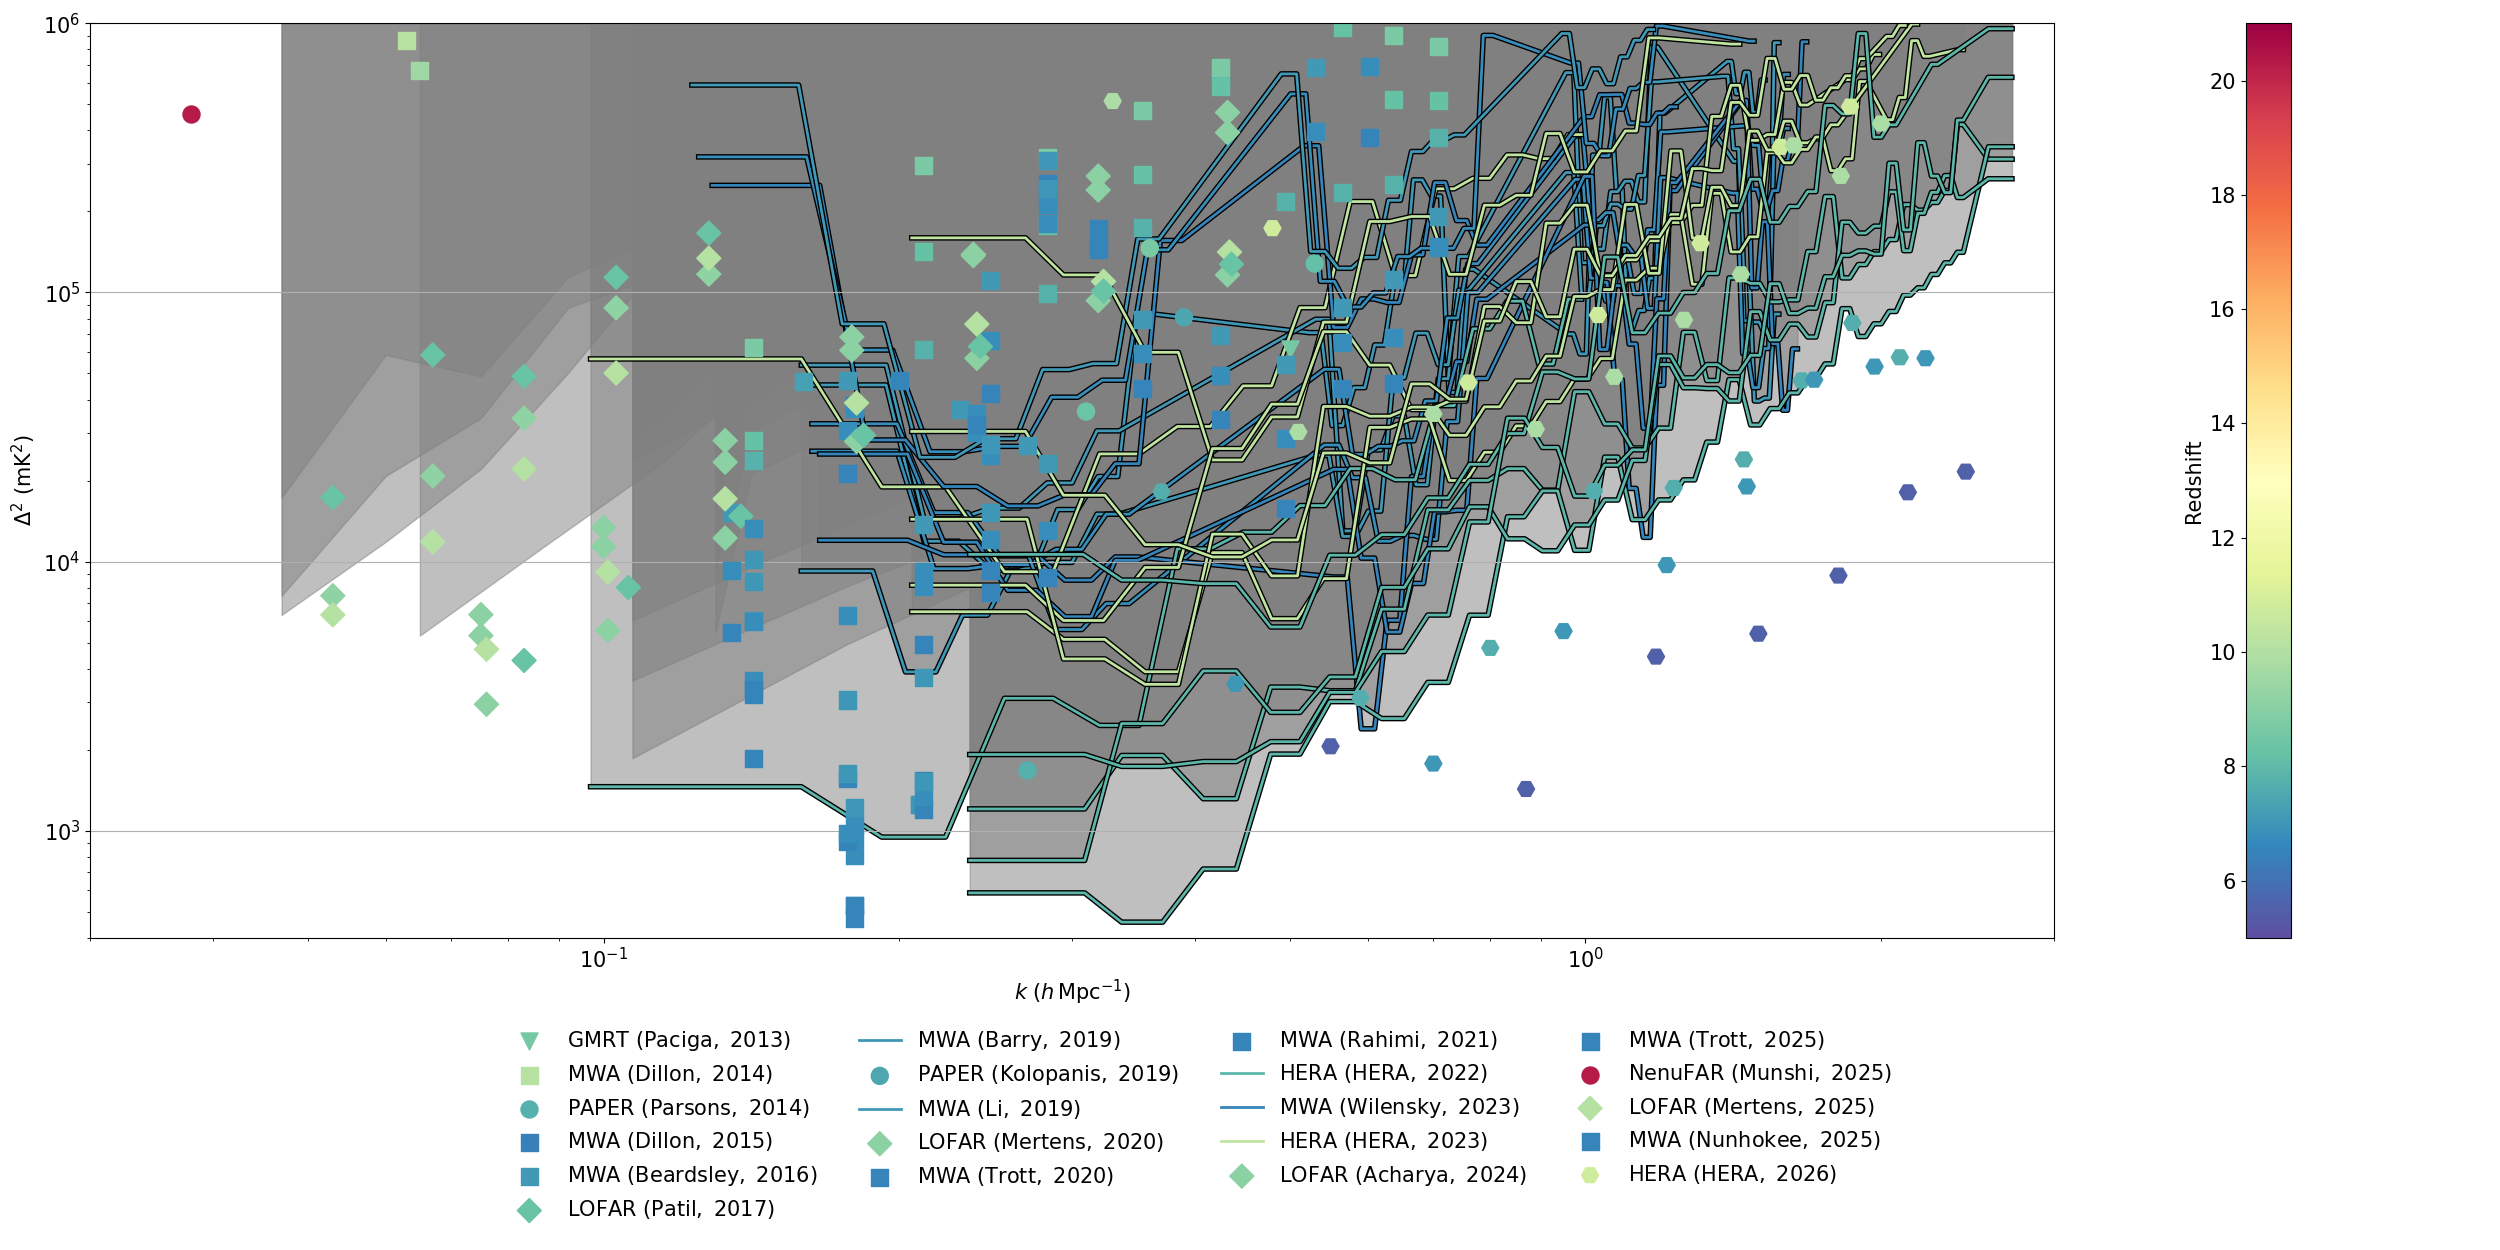
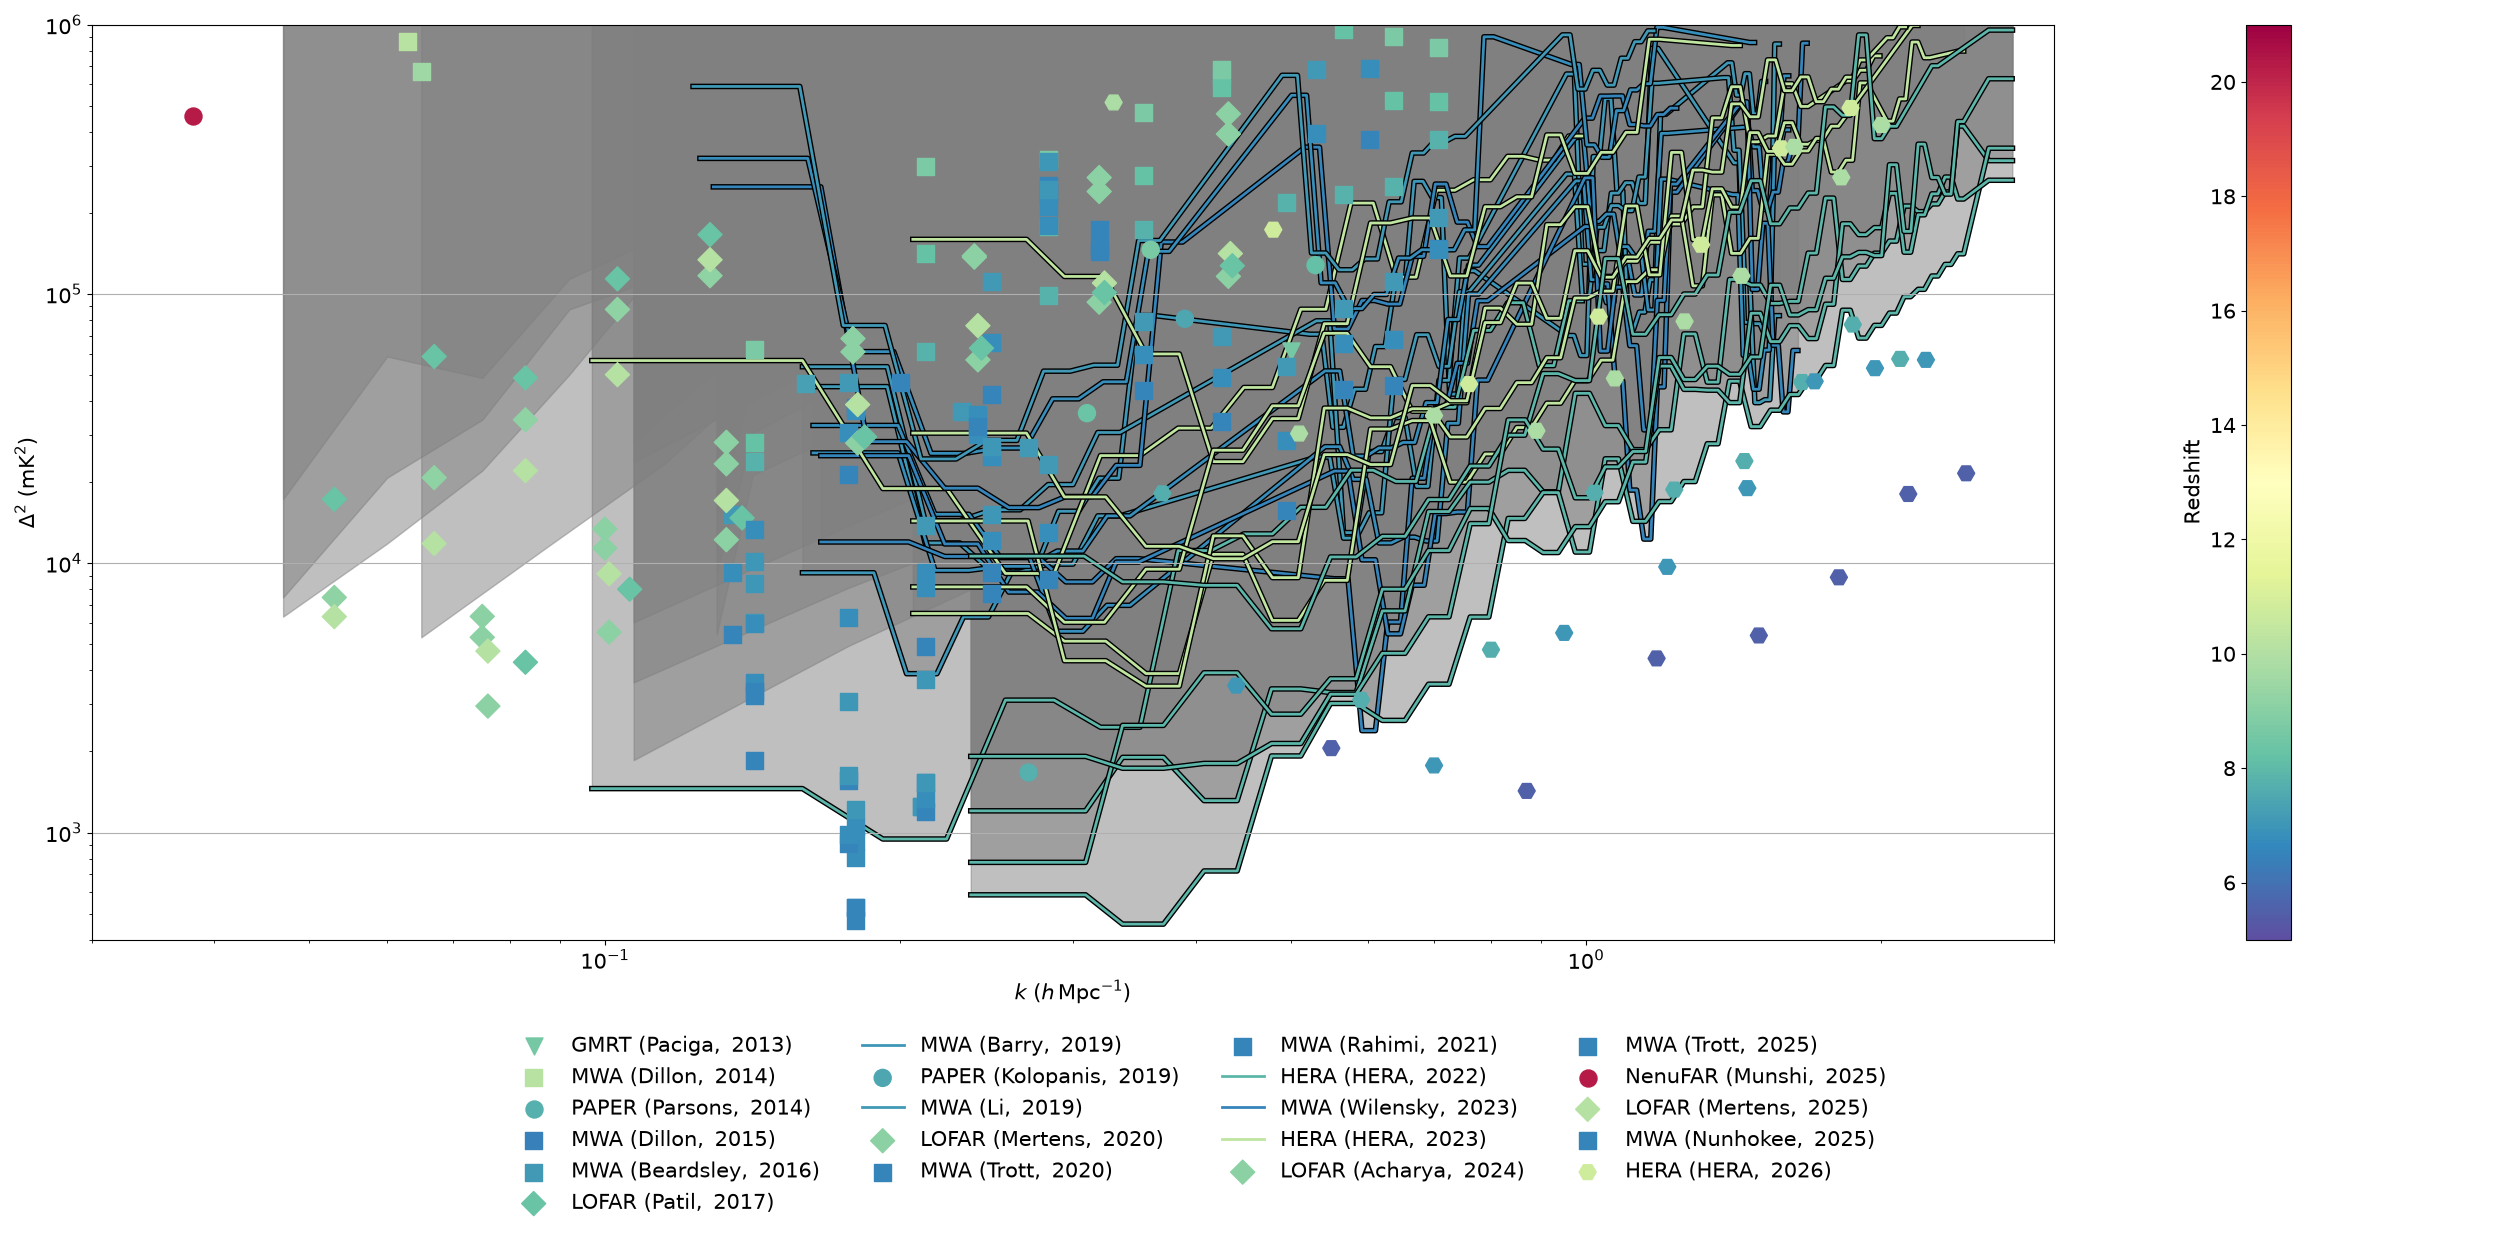
Polishing the docs (#80)
* update README

* update tutorial

* missing commas

* update README plot

* minor correction in README.md

---------

diff --git a/README.md b/README.md
@@ -1,8 +1,8 @@
 # eor-limits
 
-`eor-limits` is a small utility that provides a compendium of published upper limits on the 21-cm power spectrum from the Epoch of Reionization (EoR) and Cosmic Dawn. It also provides functionality to plot these limits as a function of scale $k$ and redshift $z$, along with some theoretical predictions from simulations.
+`eor-limits` is a small utility that provides a compendium of published upper limits on the 21-cm power spectrum from the Epoch of Reionization (EoR) and Cosmic Dawn. It also provides functionality to plot these limits as a function of scale $k$ and redshift $z$. The observational limits are bundled alongside several theoretical predictions from simulations and experimental sensitivity estimates to allow for easy comparison.
 
-The published limits are included in human-readable yaml files in the data folder, and the plotting functionality is highly customizable through keywords. It is possible to read in custom yaml files to add new limits or simulations, and we welcome pull requests to add new data sets or simulations from published papers.
+The published limits are included in human-readable YAML files in the `data` folder, alongside the theoretical predictions in the `theory` folder and sensitivity estimates in the `sensitivities` folder. It is also possible to read in custom YAML files, and we welcome pull requests to add new observational data or theory models from published papers.
 
 To use the code, check out the _Usage and examples_. For users who want to quickly explore the limits and make plots without needing to install anything, check out the new online interface: [eorlimits.streamlit.app](https://eorlimits.streamlit.app/)!
 
@@ -22,13 +22,13 @@ To use the code, check out the _Usage and examples_. For users who want to quick
 
 * **pip installation**: Developers who would like to contribute to the code can install the package as: ```pip install -e .``` (including the dot). This will install the package in editable mode, which allows you to make changes to the code and have them immediately reflected when you import the package.
 
-* **uv installation**: If you prefer to use `uv` to manage your environment, you can install the package in editable mode with the development dependencies using: ```uv sync --all-extras --editable```
+* **uv installation**: If you prefer to use `uv` to manage your environment, you can install the package in editable mode with the development dependencies using: ```uv sync```. To also install the dependencies for building the documentation, use ```uv sync --group docs```.
 
 * **Using pre-commit**: To use pre-commit to prevent committing code that does not follow our style, you'll need to run `pre-commit install` in the top level `eor_limits` directory.
 
 * **Testing**: To run the tests, you can use the command `pytest` from the top level `eor_limits` directory. If you have `uv` installed, you can also run the tests with the development dependencies using `uv run pytest`.
 
-* **CLI debugging**: To debug the CLI, append the environment variable `EOR_LIMITS_DEBUG=1` to the command you want to run, e.g. ```EOR_LIMITS_DEBUG=1 eor-limits plot-vs-k --out=MyPlot.pdf```. This will print out richly-formatted tracebacks instead of the high-level error messages.
+* **CLI debugging**: To debug the CLI, prefix the command you want to run with the environment variable `EOR_LIMITS_DEBUG=1`, e.g. ```EOR_LIMITS_DEBUG=1 eor-limits plot-vs-k --out=MyPlot.pdf```. This will print out richly-formatted tracebacks instead of the high-level error messages.
 
 ## Usage and examples
 
@@ -36,14 +36,15 @@ There are three main ways to use `eor-limits`: through the online graphical user
 
 ### Using the online GUI
 
-The online GUI is the quickest way to explore published limits and generate plots without installing anything locally. It is built with [Streamlit](https://streamlit.io/) and lets you select data sets, apply filters, customize the display, and download both the data and resulting figures. You can access it at [eorlimits.streamlit.app](https://eorlimits.streamlit.app/). Note that the GUI may differ in its plotting style and customization options, as it sits on a different Github repository (although using this codebase as a dependency) and is maintained separately.
+The online GUI is the quickest way to explore published limits and generate plots without installing anything locally. It is built with [Streamlit](https://streamlit.io/) and lets you select datasets, apply filters, customize the display, and download both the data and resulting figures. You can access it at [eorlimits.streamlit.app](https://eorlimits.streamlit.app/). Note that the GUI may differ in its plotting style and customization options, as it sits on a different GitHub repository (although using this codebase as a dependency) and is maintained separately.
 
 ### Using the Python API
 
-The Python API provides tools for loading, filtering, and plotting the included data sets. For a more complete walkthrough, see the _Tutorial notebook_. Here we just give a brief overview. A simple example of loading the data and slicing it:
+The Python API provides tools for loading, filtering, and plotting the included datasets. For a more complete walkthrough, see the _Tutorial notebook_. Here we just give a brief overview. All datasets are loaded with `load_limit_data`, `load_theory_model`, or `load_sensitivity_data`, which return a `DataSet` object. For available datasets, see `KNOWN_LIMITS`, `KNOWN_THEORIES`, and `KNOWN_SENSITIVITIES`. A simple example of loading the data and slicing it is shown below:
 
 ```python
-from eor_limits import load_limit_data
+from eor_limits import load_limit_data, load_theory_model, load_sensitivity_data
+from eor_limits import KNOWN_LIMITS, KNOWN_THEORIES, KNOWN_SENSITIVITIES
 
 hera2026 = load_limit_data("HERA2026")  # or eor_limits.DataSet.load("HERA2026")
 print(hera2026.data.as_pandas_df())
@@ -59,45 +60,33 @@ from eor_limits import plot_vs_k, plot_vs_z
 plot_vs_k()
 ```
 
-The plotting functions accept keyword arguments to choose which limits and simulations to include, customize their styles, and save the output. For example, the following code plots the HERA limits, shades the 2023 result, bolds the HERA 2026 legend item, and adds the `Mesinger2016Faint` and `Mesinger2016Bright` simulations with custom colors and shaded regions:
+The plotting functions accept keyword arguments to choose which observational limits, theory models, and sensitivity estimates to include. You can then customize their styles. For example, the following code plots the HERA limits between redshifts 7 and 11, bolds and shades the HERA 2023 result, adds the `Mesinger2016Faint` and `Mesinger2016Bright` theory models with custom colors and shaded regions, and adds the SKA-Low AA4 sensitivity estimate in red.
 
 ```python
 from eor_limits import plot_vs_k, plot_vs_z
 
 plot_vs_k(
     limits=["HERA2022", "HERA2023", "HERA2026"],
-    bold_limits=["HERA2026"],
+    z_range=(7, 11),
+    bold_limits=["HERA2023"],
     shade_limits=True,
-    base_limit_style={"linewidth": 4, "shade_alpha": 0.08},
-    limit_styles={"HERA2023": {"shade_alpha": 0.16}},
+    base_limit_style={"shade_alpha": 0.05},
+    limit_styles={"HERA2023": {"shade_alpha": 0.5}},
     theories=["Mesinger2016Faint", "Mesinger2016Bright"],
     shade_theories=True,
-    base_theory_style={"color": "black", "linewidth": 2.5},
+    base_theory_style={"color": "black"},
     theory_styles={
         "Mesinger2016Faint": {"linestyle": "--"},
         "Mesinger2016Bright": {"linestyle": ":"},
     },
+    sensitivities={"SKA-AA4": "Breitman2026_AA4_deep1080h"},
+    sensitivity_style={"SKA-AA4": {"color": "red"}},
+    publication=True,
     out="MyPlot.pdf",
 )
 ```
 
-Sensitivity estimates (for example, from 21cmSense) can be added to both plots. The package includes the SKA-Low AA4 and AA* sensitivities of a 1080-hour deep survey from Breitman et al. 2026, named `Breitman2026_AA4_deep1080h` and `Breitman2026_AAstar_deep1080h` (see `KNOWN_SENSITIVITIES`). They include thermal noise and the sample variance of the mock signal used in that paper. Other estimates are read from YAML files in the same format as the limits files, with the sensitivity given as `delta_squared` in mK$^2$ for each redshift `z` and scale `k` in $h\,$Mpc$^{-1}$. The file also needs a top-level `k_unit: h/Mpc` entry, which states the unit of `k`; files without it are rejected. Note that 21cmSense v3 writes $k$ in Mpc$^{-1}$ (see the `k_unit` attribute of its output file), so these values must be divided by $h$. Known sensitivities and files are both read with `load_sensitivity_data`, by name or by path. In `plot_vs_k`, one curve is drawn for each redshift in the file. In `plot_vs_z`, the lowest sensitivity at each redshift is drawn, or the sensitivity in the $k$ bin closest to `sensitivity_k` if it is given.
-
-```python
-from eor_limits import load_sensitivity_data, plot_vs_k, plot_vs_z
-
-ska_aa4 = load_sensitivity_data("Breitman2026_AA4_deep1080h")
-print(ska_aa4.data.as_pandas_df())
-
-plot_vs_k(sensitivities={"SKA AA4": "Breitman2026_AA4_deep1080h"})
-plot_vs_z(
-    sensitivities={
-        "SKA AA4": "Breitman2026_AA4_deep1080h",
-        "My array": "/path/to/my_sensitivity.yaml",
-    },
-    sensitivity_k=0.2,
-)
-```
+Note that custom sensitivity files must use the same format as the limits, i.e. units of $\Delta^2(k)$ in mK$^2$ and $k$ in $h\,$Mpc$^{-1}$. 21cmSense v3 writes $k$ in Mpc$^{-1}$ (see the `k_unit` attribute of its output file), so these values must be divided by $h$. To ensure that the correct units are used, the `k_unit: h/Mpc` attribute must be present in the YAML file. Files without it are rejected.
 
 ### Using the CLI
 
@@ -109,30 +98,23 @@ For the default plot of all limits as a function of scale $k$, run:
 eor-limits plot-vs-k --out=MyPlot.pdf
 ```
 
-The CLI exposes the same plotting options as the Python API. Dictionary-style options, such as custom limit or theory styles, can be passed as JSON strings:
+The CLI exposes the same plotting options as the Python API. Dictionary-style options, such as sensitivities and custom styles, are passed as JSON strings:
 
 ```bash
 eor-limits plot-vs-k \
     --limits HERA2022 HERA2023 HERA2026 \
-    --bold-limits HERA2026 \
+    --z-range 7 11 \
+    --bold-limits HERA2023 \
     --shade-limits \
-    --base-limit-style '{"linewidth": 4, "shade_alpha": 0.08}' \
-    --limit-styles '{"HERA2023": {"shade_alpha": 0.16}}' \
+    --base-limit-style '{"shade_alpha": 0.05}' \
+    --limit-styles '{"HERA2023": {"shade_alpha": 0.5}}' \
     --theories Mesinger2016Faint Mesinger2016Bright \
     --shade-theories \
-    --base-theory-style '{"color": "black", "linewidth": 2.5}' \
+    --base-theory-style '{"color": "black"}' \
     --theory-styles '{"Mesinger2016Faint": {"linestyle": "--"}, "Mesinger2016Bright": {"linestyle": ":"}}' \
-    --out MyPlot.pdf
-```
-
-Sensitivities are passed with one `--sensitivities.<label>` option each, given by name or by path:
-
-```bash
-eor-limits plot-vs-z \
-    --limits HERA2022 HERA2023 \
-    --sensitivities.SKA-AA4 Breitman2026_AA4_deep1080h \
-    --sensitivities.MyArray /path/to/my_sensitivity.yaml \
-    --sensitivity-k 0.2 \
+    --sensitivities '{"SKA-AA4": "Breitman2026_AA4_deep1080h"}' \
+    --sensitivity-style '{"SKA-AA4": {"color": "red"}}' \
+    --publication \
     --out MyPlot.pdf
 ```
 
@@ -142,7 +124,7 @@ eor-limits plot-vs-z \
 
 We welcome contributions to this repository from the community. If you would like to contribute, please follow these guidelines:
 
-* If you would like to add new data sets or simulations, ensure that they come from peer-reviewed published papers and make a pull request to add them to the repository (see _Developer Installation_ for information on how to set up your environment). The data should be added in the form of a YAML file in the data folder (for limits), sensitivities folder (for sensitivities) or the theory folder (for simulations), following the format of the existing files.
+* If you would like to add new observational limits, theory models or sensitivities, ensure that they come from peer-reviewed published papers and make a pull request to add them to the repository (see _Developer installation_ for information on how to set up your environment). The data should be added in the form of a YAML file in the data folder (for observational limits), the theory folder (for theory models), or the sensitivities folder (for sensitivity estimates) following the format of the existing files.
 
     ```yaml
     telescope: GMRT
@@ -155,9 +137,9 @@ We welcome contributions to this repository from the community. If you would lik
         z: [8.6]
     ```
 
-* If you would like to plot or compare unpublished data, you can create a local YAML file and load it in the code using  `DataSet.load("/path/to/my_data.yaml")`.
+* If you would like to plot or compare unpublished data, you can create a local YAML file in the same format and pass its path wherever a dataset name is accepted, e.g. `plot_vs_k(limits=["HERA2026", "/path/to/my_data.yaml"])` or `load_limit_data("/path/to/my_data.yaml")`. The same works for theories (`theories=` and `load_theory_model`) and sensitivities (`sensitivities=` and `load_sensitivity_data`).
 
-* If you would like to report a bug or request a feature, please file an issue on the github repository.
+* If you would like to report a bug or request a feature, please file an issue on the GitHub repository.
 
 ### License
 
